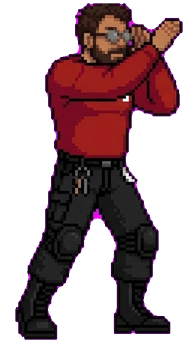
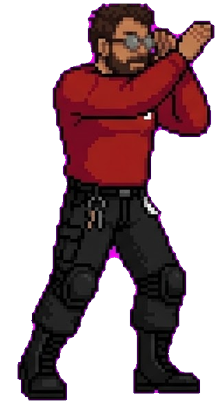
Coerenza dimensioni sprite: parata/accovacciato/caduta normalizzate alla scala reale del foglio (580), KO ridotto 1.9x a proporzione corretta, cache v=10

diff --git a/index.html b/index.html
@@ -96,7 +96,7 @@ Rr(432,200,44,38,'#14141c');Rr(434,202,40,34,'#c8482a');Rr(444,214,20,10,'#fff')
 /* ---------- fighter ---------- */
 function R(x,y,w,h,col){c.fillStyle='#07070c';c.fillRect(x-1,y-1,w+2,h+2);c.fillStyle=col;c.fillRect(x,y,w,h)}
 /* sprite BEPPE (da Google Drive): 1 riga per animazione in assets/characters/beppe/, corpo in piedi normalizzato a 400px, piedi sul bordo inferiore, rivolti a destra */
-const SPR={},SPRB=400,VER=9,SPRN={idle:4,walk:4,punch:5,kick:5,heavy:5,jump:3,block:1,crouch:1,special:5,fall:5,ko:1};
+const SPR={},SPRB=400,VER=10,SPRN={idle:4,walk:4,punch:5,kick:5,heavy:5,jump:3,block:1,crouch:1,special:5,fall:5,ko:1};
 for(const a of Object.keys(SPRN)){const im=new Image();im.onload=()=>{SPR[a]=im};im.src='assets/characters/beppe/beppe-'+a+'.png?v='+VER}
 const PAL=new Image();PAL.src='assets/characters/beppe/pallet.png?v='+VER;
 const BGI=new Image();BGI.src='assets/backgrounds/arena-supermercato.png?v='+VER;
